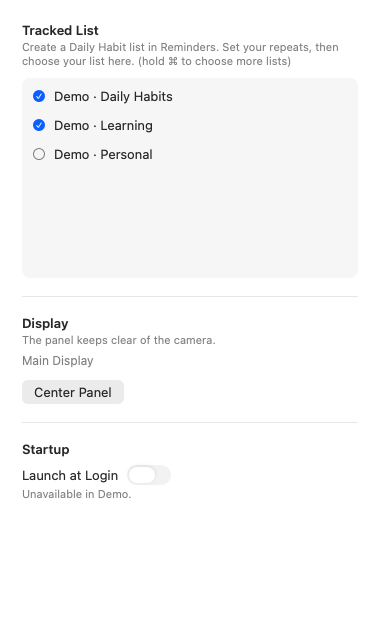
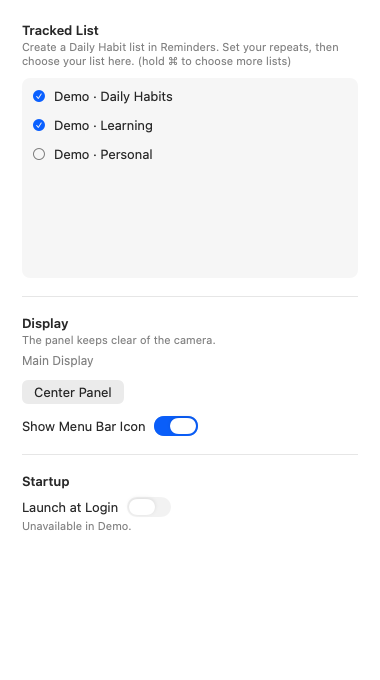
Add menu bar visibility setting and simplify panel menu

diff --git a/Sources/PanelView.swift b/Sources/PanelView.swift
@@ -21,7 +21,7 @@ final class PanelState: ObservableObject {
     var onSelectDay: (() -> Void)?
     var onSelectMonth: (() -> Void)?
     var onToggleDay: (() -> Void)?
-    var onToggleMode: (() -> Void)?
+    var onTogglePinned: (() -> Void)?
     var onDragChanged: (() -> Void)?
     var onDragEnded: (() -> Void)?
 
@@ -295,36 +295,13 @@ private struct PanelMenu: View {
     @ObservedObject var state: PanelState
     var body: some View {
         Group {
-            if store.isDemo {
-                Menu("Demo Data") {
-                    Button("Sample Day") { store.loadDemoData() }
-                    Button("Long Day") { store.loadDemoData(taskCount: 12, completedCount: 3) }
-                    Button("Very Long Reminder") { store.loadLongTitleDemoData() }
-                    Button("Overdue Day") { store.loadOverdueDemoData() }
-                    Button("Overdue Cleared") { store.loadOverdueDemoData(completed: true) }
-                    Button("Save Error") { store.loadSaveFailureDemoData() }
-                    Button("Slow Save") { store.loadSlowSaveDemoData() }
-                    Button("Saved, Awaiting Refresh") { store.loadUnconfirmedSaveDemoData() }
-                    Button("Empty Day") { store.loadDemoData(taskCount: 0, completedCount: 0) }
-                    Button("Empty List") { store.loadEmptyListDemoData() }
-                    Button("Undated Reminders") { store.loadUndatedDemoData() }
-                    Button("Future Reminders") { store.loadFutureDemoData() }
-                    Button("All Complete") { store.loadDemoData(taskCount: 5, completedCount: 5) }
-                    Menu("Connection States") {
-                        Button("Loading") { store.loadStatusDemoData(.loading) }
-                        Button("Access Off") { store.loadStatusDemoData(.denied) }
-                        Button("No List Selected") { store.loadStatusDemoData(.unselected) }
-                        Button("List Unavailable") { store.loadStatusDemoData(.unavailable) }
-                        Button("Load Failed") { store.loadStatusDemoData(.failed) }
-                        Button("Refresh Failed · Keep Content") { store.loadStaleDemoData() }
-                    }
+            Button("Settings") { state.onOpenSettings?() }
+            Toggle("Keep Expand", isOn: Binding(
+                get: { state.pinned },
+                set: { pinned in
+                    if pinned != state.pinned { state.onTogglePinned?() }
                 }
-                Divider()
-            }
-            Button("Settings…") { state.onOpenSettings?() }
-            Button("Refresh") { store.retryLoad() }
-                .disabled(store.isRefreshing || store.isMutating)
-            Button(store.expandedMode == "today" ? "Show Month" : "Show Day") { state.onToggleMode?() }
+            ))
             if store.selectedCalendars.count > 1 {
                 Menu("Open Tracked List") {
                     ForEach(store.selectedCalendars, id: \.calendarIdentifier) { list in
@@ -336,7 +313,6 @@ private struct PanelMenu: View {
                 Button("Open Tracked List") { store.openTrackedList() }
                     .disabled(store.isDemo || !store.canOpenTrackedList)
             }
-            Divider()
             Button("Quit Glitter") { NSApp.terminate(nil) }
 
         }

diff --git a/Tests/MenuBarChecks.swift b/Tests/MenuBarChecks.swift
@@ -1,0 +1,54 @@
+import AppKit
+
+extension NotchPanelController {
+    static func checkMenuBarVisibility() {
+        var count = 0
+        func check(_ value: @autoclosure () -> Bool, _ message: String) {
+            precondition(value(), message)
+            count += 1
+        }
+        func configuredController(defaults: UserDefaults) -> NotchPanelController {
+            let (store, _) = TaskStore.todayFixture()
+            let controller = NotchPanelController(store: store, defaults: defaults)
+            controller.hoverTimer?.invalidate()
+            return controller
+        }
+        let defaults = MemoryDefaults()
+        defaults.set("keep", forKey: "unrelated.setting")
+        let controller = configuredController(defaults: defaults)
+        defer { controller.panel.orderOut(nil) }
+        var updates = 0
+        controller.onDataChanged = { updates += 1 }
+        check(controller.showsMenuBarIcon, "Existing installations show the menu-bar icon by default")
+        controller.setMenuBarIconVisible(false)
+        check(!controller.showsMenuBarIcon, "The settings model immediately reflects a hidden icon")
+        check(defaults.object(forKey: "Glitter.showMenuBarIcon") as? Bool == false, "Hidden icon preference is persisted")
+        check(updates == 1, "A change notifies the app delegate to update the native item")
+        controller.setMenuBarIconVisible(false)
+        check(updates == 1, "Repeated values do not rebuild the native menu")
+        check(defaults.string(forKey: "unrelated.setting") == "keep", "Icon visibility preserves unrelated settings")
+        let relaunched = configuredController(defaults: defaults)
+        defer { relaunched.panel.orderOut(nil) }
+        check(!relaunched.showsMenuBarIcon, "Relaunch restores the hidden preference")
+        relaunched.setMenuBarIconVisible(true)
+        check(relaunched.showsMenuBarIcon, "Settings can restore the icon")
+        check(defaults.object(forKey: "Glitter.showMenuBarIcon") as? Bool == true, "Restored icon preference is persisted")
+
+        controller.state.onTogglePinned?()
+        check(controller.state.pinned && controller.state.expanded, "The panel context-menu action pins and expands the panel")
+        controller.collapse()
+        check(controller.state.expanded, "A pinned panel ignores hover collapse")
+        controller.state.onTogglePinned?()
+        check(!controller.state.pinned, "The context-menu action releases the pin")
+
+        let demoDefaults = DemoDefaults()
+        let demo = configuredController(defaults: demoDefaults)
+        defer { demo.panel.orderOut(nil) }
+        demo.setMenuBarIconVisible(false)
+        check(demoDefaults.object(forKey: "Glitter.showMenuBarIcon") as? Bool == false,
+              "Demo stores its visibility choice in its in-memory defaults")
+        check(DemoDefaults().object(forKey: "Glitter.showMenuBarIcon") == nil,
+              "A new Demo session starts with isolated preferences")
+        print("PASS \(count) menu-bar preference, persistence, notification and context pin checks")
+    }
+}

diff --git a/Sources/NotchPanelController.swift b/Sources/NotchPanelController.swift
@@ -71,6 +71,7 @@ final class NotchPanelController: ObservableObject {
     private enum Keys {
         static let display = "SandNotch.displayID"
         static let offset = "SandNotch.horizontalOffset"
+        static let menuBarIcon = "Glitter.showMenuBarIcon"
     }
 
     private(set) var panel: NotchPanel
@@ -82,6 +83,7 @@ final class NotchPanelController: ObservableObject {
     private var scrollLocalMonitor: Any?
     @Published private(set) var selectedDisplayID: CGDirectDisplayID?
     @Published private(set) var screens: [NSScreen]
+    @Published private(set) var showsMenuBarIcon: Bool
 
     private var hoverTimer: Timer?
     private var screenObserver: NSObjectProtocol?
@@ -126,6 +128,7 @@ final class NotchPanelController: ObservableObject {
     init(store: TaskStore, defaults: UserDefaults = .standard) {
         self.store = store
         self.defaults = defaults
+        showsMenuBarIcon = defaults.object(forKey: Keys.menuBarIcon) as? Bool ?? true
         let availableScreens = NSScreen.screens
         screens = availableScreens
         let savedDisplayID = defaults.object(forKey: Keys.display) == nil
@@ -202,7 +205,7 @@ final class NotchPanelController: ObservableObject {
             guard let self, self.animationDisplayLink === link else { return }
             self.advanceAnimation(at: link.targetTimestamp)
         }
-        state.onToggleMode = { [weak self] in self?.modeButtonClicked() }
+        state.onTogglePinned = { [weak self] in self?.togglePinned() }
         state.onSelectDay = { [weak self] in self?.selectMode("today") }
         state.onSelectMonth = { [weak self] in self?.selectMode("month") }
         state.onToggleDay = { [weak self] in
@@ -461,8 +464,15 @@ final class NotchPanelController: ObservableObject {
         if state.pinned {
             expand()
         } else {
-            collapse()
+            pollCursor()
         }
+        onDataChanged?()
+    }
+
+    func setMenuBarIconVisible(_ visible: Bool) {
+        guard visible != showsMenuBarIcon else { return }
+        showsMenuBarIcon = visible
+        defaults.set(visible as Any, forKey: Keys.menuBarIcon)
         onDataChanged?()
     }
 
@@ -510,11 +520,6 @@ final class NotchPanelController: ObservableObject {
         guard state.expanded, acceptsClick else { return }
         cancelScheduledCollapse()
         store.setExpandedMode(mode)
-    }
-
-    private func modeButtonClicked() {
-        guard acceptsClick else { return }
-        store.setExpandedMode(store.expandedMode == "today" ? "month" : "today")
     }
 
     private func dragChanged() {

diff --git a/Sources/SettingsView.swift b/Sources/SettingsView.swift
@@ -69,6 +69,15 @@ struct SettingsView: View {
             Button("Center Panel") { controller.resetOffset() }
                 .padding(.top, 12)
 
+            Toggle("Show Menu Bar Icon", isOn: Binding(
+                get: { controller.showsMenuBarIcon },
+                set: { controller.setMenuBarIconVisible($0) }
+            ))
+            .font(.system(size: 13))
+            .toggleStyle(.switch)
+            .controlSize(.small)
+            .padding(.top, 12)
+
             Divider().padding(.vertical, 18)
             title("Startup")
             Toggle("Launch at Login", isOn: Binding(
@@ -96,7 +105,7 @@ struct SettingsView: View {
 
         }
         .padding(22)
-        .frame(width: 380, height: 640)
+        .frame(width: 380, height: 680)
         .background(Color(nsColor: .windowBackgroundColor))
         .onAppear { loginItems.refresh() }
         .onReceive(NotificationCenter.default.publisher(for: NSApplication.didBecomeActiveNotification)) { _ in
@@ -183,7 +192,7 @@ final class SettingsWindowController {
         )
 
         let window = NSWindow(
-            contentRect: NSRect(x: 0, y: 0, width: 380, height: 640),
+            contentRect: NSRect(x: 0, y: 0, width: 380, height: 680),
             styleMask: [.titled, .closable],
             backing: .buffered,
             defer: false

diff --git a/Tests/LoginItemChecks.swift b/Tests/LoginItemChecks.swift
@@ -46,7 +46,7 @@ func checkLoginItems() async {
     let controller = NotchPanelController(store: store, defaults: MemoryDefaults())
     func captureSettings(_ name: String, _ loginItems: LoginItemManager) {
         let host = NSHostingView(rootView: SettingsView(store: store, controller: controller, loginItems: loginItems, onRequestAccess: {}))
-        host.frame = NSRect(x: 0, y: 0, width: 380, height: 640)
+        host.frame = NSRect(x: 0, y: 0, width: 380, height: 680)
         host.layoutSubtreeIfNeeded()
         let bitmap = host.bitmapImageRepForCachingDisplay(in: host.bounds)!
         host.cacheDisplay(in: host.bounds, to: bitmap)

diff --git a/Tests/main.swift b/Tests/main.swift
@@ -3,11 +3,13 @@ import SwiftUI
 MainActor.assumeIsolated { TaskStore.checkTodayModel(); NotchPanelController.checkTodayInteraction() }
 
 Task { @MainActor in
+    NotchPanelController.checkMenuBarVisibility()
     await TaskStore.checkTaskEditing()
     await TaskStore.checkMultipleLists()
     await TaskStore.checkCraftStates()
     await NotchPanelController.checkCraftPresentation()
     await checkLoginItems()
+    print("PASS all checks completed")
     exit(0)
 }
 RunLoop.main.run()

diff --git a/Sources/AppDelegate.swift b/Sources/AppDelegate.swift
@@ -77,9 +77,11 @@ final class AppDelegate: NSObject, NSApplicationDelegate {
             button.image = image
         }
         statusItem.menu = statusMenu
+        statusItem.isVisible = controller.showsMenuBarIcon
     }
 
     private func rebuildMenu() {
+        statusItem?.isVisible = controller.showsMenuBarIcon
         statusMenu.removeAllItems()
 
         let stat = store.todayStat

diff --git a/README.md b/README.md
@@ -16,11 +16,12 @@
 
 Glitter is a small macOS app that keeps Apple Reminders tasks beside your notch and shows your daily progress in a monthly calendar. It grew out of SAND, an earlier project about time and grains of sand.
 
-- **Local and private.** Glitter makes no direct network requests and includes no analytics or app logs. It saves only your selected list IDs, display and panel position.
+- **Local and private.** Glitter makes no direct network requests and includes no analytics or app logs. It saves only your selected list IDs, display, panel position and menu bar icon visibility.
 - **Works with Apple Reminders.** Reads and updates your reminders through Apple’s on-device API. Task data stays in Reminders, and Apple handles iCloud syncing across your devices.
 - **Track your lists.** Choose a list in Settings, or hold ⌘ while clicking to select several. Their tasks and daily progress are combined.
 - **Keeps today visible.** Shows today’s tasks and unfinished overdue reminders at the top of your screen. Hover to view them and click to mark them complete. Create and edit tasks in Apple Reminders.
 - **Shows your progress.** Eight shades of gold represent daily completion. Days with all tasks completed glow gold.
+- **Choose your controls.** Show or hide the menu bar icon in Settings. Right-click the panel for Settings, Keep Expand, Open Tracked List and Quit Glitter.
 
 The calendar uses current reminder records. Editing or deleting those records may change past results.
 
@@ -28,7 +29,7 @@ Read the [privacy details and verification notes](docs/PRIVACY.md).
 
 ### Download
 
-Download [Glitter 1.0](https://github.com/uniAspirin/Glitter/releases/download/v1.0/Glitter-1.0.dmg). Requires macOS 14 or later and Apple Silicon.
+Download [Glitter 1.1](https://github.com/uniAspirin/Glitter/releases/download/v1.1/Glitter-1.1.dmg). Requires macOS 14 or later and Apple Silicon.
 
 Open the DMG and drag Glitter to Applications. On first launch, allow Reminders access and choose your lists in Settings. The app is ad-hoc signed and has not been notarized by Apple. macOS may require approval under System Settings → Privacy & Security → Open Anyway.
 
@@ -38,11 +39,12 @@ Open the DMG and drag Glitter to Applications. On first launch, allow Reminders 
 
 Glitter 是一个小型 macOS 应用，将 Apple Reminders 中的任务放在刘海旁，并用月历展示每天的完成情况。它来自之前的项目 SAND，延续了用金色沙粒记录时间的想法。
 
-- **本地处理，保护隐私。** Glitter 不主动联网，没有统计追踪或应用日志。仅保存所选列表 ID、显示器和窗口位置。
+- **本地处理，保护隐私。** Glitter 不主动联网，没有统计追踪或应用日志。仅保存所选列表 ID、显示器、窗口位置和菜单栏图标显示设置。
 - **直接使用苹果提醒事项。** 通过苹果本地 API 读取和更新任务。任务数据保留在提醒事项中，设备间的 iCloud 同步由苹果负责。
 - **选择要跟踪的列表。** 在设置中选择一个列表，按住 ⌘ 点击可多选。所选列表的任务与每日进度会合并显示。
 - **让今天的任务保持可见。** 在屏幕顶部显示今日任务和未完成的逾期事项。悬停查看，点击完成。创建和编辑仍在提醒事项中进行。
 - **看见每天的积累。** 八级金色表示每天的完成比例，全部完成的日子会亮起金色光晕。
+- **选择操作入口。** 在设置中选择是否显示菜单栏图标。刘海右键菜单提供设置、保持展开、打开跟踪列表和退出四项操作。
 
 月历基于当前提醒事项记录计算。修改或删除原始记录，可能改变过去的显示结果。
 
@@ -50,7 +52,7 @@ Glitter 是一个小型 macOS 应用，将 Apple Reminders 中的任务放在刘
 
 ### 下载
 
-下载 [Glitter 1.0](https://github.com/uniAspirin/Glitter/releases/download/v1.0/Glitter-1.0.dmg)。支持 macOS 14 及以上版本，需要 Apple Silicon 芯片。
+下载 [Glitter 1.1](https://github.com/uniAspirin/Glitter/releases/download/v1.1/Glitter-1.1.dmg)。支持 macOS 14 及以上版本，需要 Apple Silicon 芯片。
 
 打开 DMG，将 Glitter 拖入 Applications。首次启动允许提醒事项访问，再在设置中选择列表。应用使用 ad-hoc 签名，尚未经过 Apple 公证。macOS 如阻止首次启动，可在系统设置 → 隐私与安全性中选择“仍要打开”。
 

diff --git a/docs/RELEASE_NOTES.md b/docs/RELEASE_NOTES.md
@@ -1,31 +1,23 @@
-# Glitter 1.0
+# Glitter 1.1
 
 ## English
 
-First public version of Glitter, formerly Sand Notch.
+- Choose whether to show the menu bar icon in Settings. The icon is shown by default, and your choice is remembered across launches.
+- The panel context menu now contains Settings, Keep Expand, Open Tracked List and Quit Glitter. Settings remains available when the menu bar icon is hidden.
+- Keep Expand displays a checkmark when enabled. Turning it off resumes hover behavior.
+- When tracking several lists, Open Tracked List offers a submenu with each list.
 
-- Today's reminders and overdue work at the top of your screen, with click-to-complete.
-- Day and Month views, trackpad gestures and an expandable task preview.
-- Eight gold levels for daily progress, with a glow for fully completed days.
-- Multiple tracked Reminders lists using Command-click in Settings.
-- Local task processing, with no direct network requests, analytics or application logs. Only list selection and panel preferences are saved.
-- External display support, Launch at Login, Reduce Motion and recovery states.
+Requires macOS 14 or later and Apple Silicon. Open the DMG and drag Glitter to Applications.
 
-Requires macOS 14 or later and Apple Silicon. Open the DMG and drag Glitter to Applications. Grant Reminders access, then choose your lists in Settings.
-
-Month history reflects current Reminders records and can change after source edits. The locally built DMG is ad-hoc signed and has not been notarized by Apple.
+The app uses ad-hoc signing and has not been notarized by Apple. macOS may require approval under System Settings → Privacy & Security → Open Anyway.
 
 ## 简体中文
 
-Glitter 的首个公开版本，原名 Sand Notch。
+- 设置中新增 Show Menu Bar Icon 开关。图标默认显示，选择会在重新启动后保留。
+- 刘海右键菜单精简为 Settings、Keep Expand、Open Tracked List 和 Quit Glitter。隐藏菜单栏图标后，仍可从刘海右键打开设置。
+- Keep Expand 启用时显示勾选，关闭后恢复悬停展开与离开收起。
+- 跟踪多个列表时，Open Tracked List 提供对应列表的子菜单。
 
-- 屏幕顶部展示今日与逾期提醒事项，点击即可完成。
-- Day 和 Month 视图、触控板手势，以及可展开的任务预览。
-- 八级金色显示完成进度，全部完成的日期带有光晕。
-- 在设置中按住 Command 点击，可跟踪多个提醒事项列表。
-- 本地处理任务，不主动联网，不含统计追踪或应用日志，仅保存列表选择与面板设置。
-- 支持外接显示器、登录时启动、减少动态效果和异常恢复。
+支持 macOS 14 及以上版本和 Apple Silicon。打开 DMG，将 Glitter 拖入 Applications。
 
-支持 macOS 14 及以上版本和 Apple Silicon。打开 DMG，将 Glitter 拖入 Applications。首次启动允许提醒事项访问，再在设置中选择列表。
-
-月历根据当前提醒事项记录计算，修改原始数据可能改变历史。本地构建的 DMG 使用 ad-hoc 签名，尚未经过 Apple 公证。
+应用使用 ad-hoc 签名，尚未经过 Apple 公证。macOS 如阻止首次启动，可在系统设置 → 隐私与安全性中选择“仍要打开”。

diff --git a/docs/PRIVACY.md b/docs/PRIVACY.md
@@ -1,12 +1,12 @@
 # Privacy
 
-Glitter 1.0 processes reminders on your Mac through Apple's EventKit API. It makes no direct network requests and includes no advertising, analytics or application logging service.
+Glitter 1.1 processes reminders on your Mac through Apple's EventKit API. It makes no direct network requests and includes no advertising, analytics or application logging service.
 
 ## Data on your Mac
 
 Glitter reads list names to display the selection in Settings. It fetches reminder content from the selected lists, calculates progress in memory and writes completion changes back to the reminder's own list. It keeps no additional task database, daily history snapshots or application log files.
 
-The app stores selected list identifiers, your selected display and panel position in macOS preferences. Launch at Login is managed by macOS. Task content and rendered view caches live in memory for the running session.
+The app stores selected list identifiers, your selected display, panel position and menu bar icon visibility in macOS preferences. Launch at Login is managed by macOS. Task content and rendered view caches live in memory for the running session.
 
 Apple Reminders manages the underlying task records. If your list uses iCloud, Apple's services perform synchronization. Apple's data storage, synchronization and macOS diagnostic behavior follow your system settings.
 
@@ -32,7 +32,7 @@ These notes document a project self-review. They do not represent an independent
 
 Glitter 通过苹果 EventKit API 在本机读取和更新提醒事项，不主动发起网络请求，不含广告、统计追踪或应用日志。
 
-应用读取列表名称用于设置界面，从所选列表读取任务，在内存中计算完成比例，将点击完成的操作写回任务所属列表。不额外保存任务数据库、每日历史快照或日志文件。仅在 macOS 偏好设置中保存所选列表 ID、显示器和窗口位置，登录时启动由系统管理。
+应用读取列表名称用于设置界面，从所选列表读取任务，在内存中计算完成比例，将点击完成的操作写回任务所属列表。不额外保存任务数据库、每日历史快照或日志文件。仅在 macOS 偏好设置中保存所选列表 ID、显示器、窗口位置和菜单栏图标显示设置，登录时启动由系统管理。
 
 任务原始记录由苹果提醒事项管理。使用 iCloud 列表时，同步由苹果服务负责。苹果的数据存储、同步和系统诊断行为遵循你的系统设置。
 

diff --git a/docs/DEVELOPMENT.md b/docs/DEVELOPMENT.md
@@ -1,6 +1,6 @@
 # Developing Glitter
 
-Glitter 1.0 targets Apple Silicon Macs running macOS 14 or later. Build with a recent Xcode Command Line Tools installation. It uses Swift, SwiftUI, AppKit, EventKit and ServiceManagement, with system frameworks as its only runtime dependencies.
+Glitter 1.1 targets Apple Silicon Macs running macOS 14 or later. Build with a recent Xcode Command Line Tools installation. It uses Swift, SwiftUI, AppKit, EventKit and ServiceManagement, with system frameworks as its only runtime dependencies.
 
 ## Build and run
 
@@ -18,7 +18,9 @@ Use the isolated Demo when working on layout or completion behavior.
 open build/Glitter-Demo.app
 ```
 
-Demo uses fictional tasks and in-memory settings. It does not access real reminders or register a login item. Its context menu contains sample data and recovery scenarios.
+Demo uses fictional tasks and in-memory settings. It does not access real reminders or register a login item. The checks below cover additional sample data and recovery scenarios.
+
+Settings includes Show Menu Bar Icon, enabled by default and persisted for regular use. The controller notifies AppDelegate to update the native status item's visibility. Hiding it leaves the panel's Settings context-menu entry available. The panel context menu contains Settings, Keep Expand, Open Tracked List and Quit Glitter. Multi-list destinations appear in the Open Tracked List submenu.
 
 ## Checks
 
@@ -62,7 +64,7 @@ Window transitions use native display-link timing and cached view snapshots. The
 ./package.sh
 ```
 
-This rebuilds the production app and creates `dist/Glitter-1.0.dmg` and its SHA-256 checksum. The DMG contains `Glitter.app` and an Applications shortcut. Install by dragging the app to Applications.
+This rebuilds the production app and creates `dist/Glitter-1.1.dmg` and its SHA-256 checksum. The DMG contains `Glitter.app` and an Applications shortcut. Install by dragging the app to Applications.
 
 The default build uses ad-hoc signing. A successful local signature check does not imply Apple notarization or Gatekeeper acceptance on another Mac. Gatekeeper may block an unnotarized download.
 
